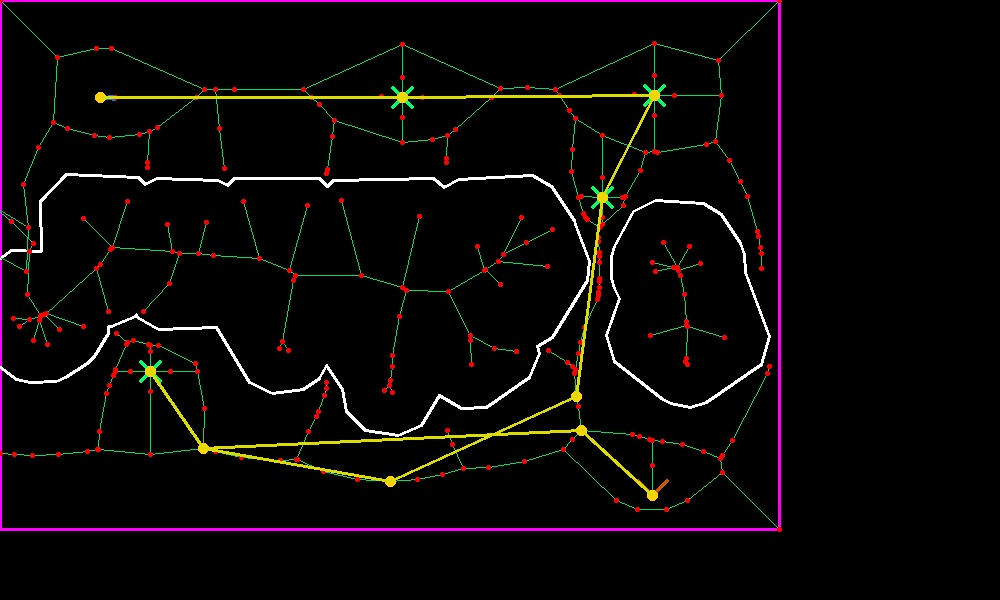
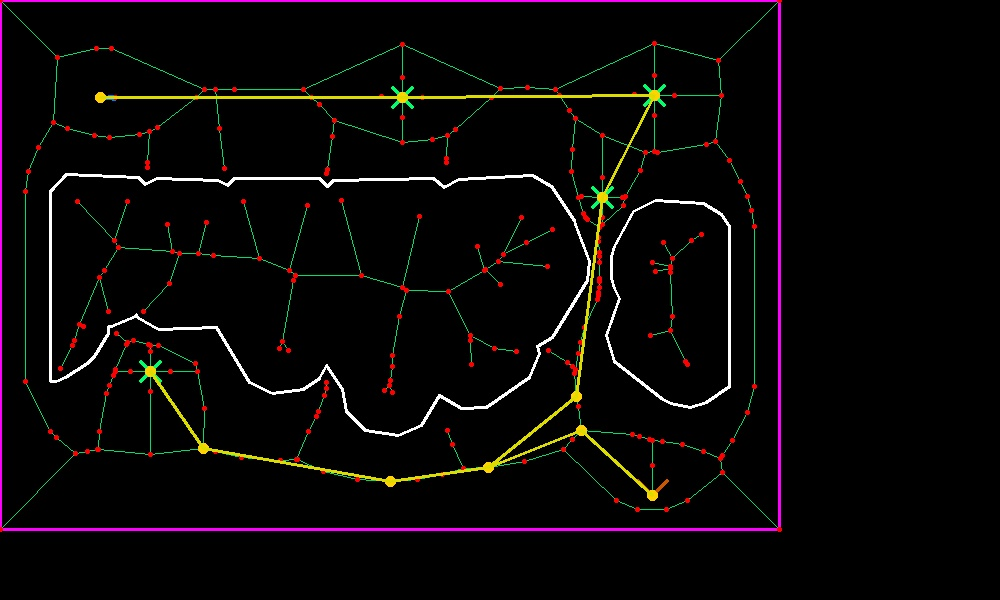
reduce border size

diff --git a/src/student_interface.cpp b/src/student_interface.cpp
@@ -252,10 +252,36 @@ namespace student {
         return (i1.second < i2.second);
     }
 
-    std::vector<Polygon> mergePolygon(const std::vector<Polygon> &obstacle_list){
+    Polygon resizeBorders(const Polygon &borders){
+        Polygon re_border;
+        for(auto &pt: borders){
+            double b_x = pt.x;
+            double b_y = pt.y;
+
+            if(b_x < 0.50){
+                b_x += 0.10;
+            }else{
+                b_x -= 0.10;
+            }
+
+            if(b_y < 0.50){
+                b_y += 0.10;
+            }else{
+                b_y -= 0.10;
+            }
+
+            re_border.emplace_back(Point(b_x, b_y));
+        }
+
+        return re_border;
+    }
+
+    std::vector<Polygon> mergePolygon(const std::vector<Polygon> &obstacle_list, const Polygon &borders){
         std::vector<Polygon> new_list;
+        std::vector<Polygon> clipped_list;
         ClipperLib::Paths solution;
         ClipperLib::Clipper c;
+        ClipperLib::Paths clip(1);
 
         for(int i= 0; i < obstacle_list.size(); i++){
             ClipperLib::Paths subj(1);
@@ -277,7 +303,37 @@ namespace student {
             new_list.emplace_back(p);
         }
 
-        return new_list;
+
+        ClipperLib::Clipper inter;
+        ClipperLib::Paths sol2;
+
+        for(int i= 0; i < new_list.size(); i++){
+            ClipperLib::Paths subj(1);
+            for (const auto &pt: new_list[i]) {
+                subj[0] << ClipperLib::IntPoint(pt.x*1000, pt.y*1000);
+            }
+
+            inter.AddPaths(subj, ClipperLib::ptSubject, true);
+        }
+
+        for(auto &pt: borders){
+            clip[0] << ClipperLib::IntPoint(pt.x*1000, pt.y*1000);
+        }
+
+        inter.AddPaths(clip, ClipperLib::ptClip, true);
+        inter.Execute(ClipperLib::ctIntersection, sol2, ClipperLib::pftNonZero, ClipperLib::pftNonZero);
+
+        for(int i= 0; i < sol2.size(); i++){
+            Polygon p;
+            for (const auto &pt: sol2[i]) {
+                p.push_back(Point((double) pt.X/1000.0, (double)pt.Y/1000.0));
+            }
+
+            clipped_list.emplace_back(p);
+        }
+
+
+        return clipped_list;
     }
 
     bool processMap(const cv::Mat &img_in, const double scale, std::vector<Polygon> &obstacle_list,
@@ -305,18 +361,27 @@ namespace student {
     bool planPath(const Polygon &borders, const std::vector<Polygon> &obstacle_list,
                   const std::vector<std::pair<int, Polygon>> &victim_list, const Polygon &gate, const float x,
                   const float y, const float theta, Path &path, const string &config_folder) {
+
+        std::cout << "Borders: " << std::endl;
+        for(int i = 0; i < borders.size(); i++){
+            std::cout << i << ": " << borders[i].x << "," << borders[i].y << std::endl;
+        }
+        std::cout << std::endl;
+
         //System to now how much time takes the plan
         auto started = std::chrono::high_resolution_clock::now();
 
+        Polygon resized_border = resizeBorders(borders);
+
         //Merge of the interecating polygon
-        std::vector<Polygon> merged_list = mergePolygon(obstacle_list);
+        std::vector<Polygon> merged_list = mergePolygon(obstacle_list, resized_border);
 
         //Initialize voronoi diagram
         voronoi_diagram<double> vd;
         Voronoi v;
 
         //Calculate the voronoi points
-        v.calculate(merged_list, borders, victim_list, gate, x, y, theta, vd);
+        v.calculate(merged_list, resized_border, victim_list, gate, x, y, theta, vd);
 
         //Generate the graph
         std::vector<std::tuple<int, Voronoi::Point, double> > t = v.graph(vd,merged_list);
@@ -353,7 +418,7 @@ namespace student {
 
             //Get the dubins curve
             Dubins dub;
-            dub.setParams(rob_x, rob_y, rob_theta, xf, yf, angle, 12.0);
+            dub.setParams(rob_x, rob_y, rob_theta, xf, yf, angle, 11.0);
 
             pair<int, curve> ret = dub.shortest_path();
             curve cur = ret.second;

diff --git a/src/test_dubins.cpp b/src/test_dubins.cpp
@@ -1,115 +1,9 @@
-#include <boost/config.hpp>
 #include <iostream>
 #include <fstream>
 
-#include <boost/graph/graph_traits.hpp>
-#include <boost/graph/adjacency_list.hpp>
-#include <boost/graph/dijkstra_shortest_paths.hpp>
-
 using namespace std;
-using namespace boost;
 
 int main() {
-    typedef adjacency_list<listS, vecS, directedS,
-            no_property, property<edge_weight_t, int> > graph_t;
-    typedef graph_traits<graph_t>::vertex_descriptor vertex_descriptor;
-    typedef graph_traits<graph_t>::edge_descriptor edge_descriptor;
-    typedef std::pair<int, int> Edge;
 
-    vector<pair<double, double> > node_pos = {
-            make_pair(0,0), make_pair(1.3, 4.3),
-            make_pair(1.1,2), make_pair(1.3, 6.3),
-            make_pair(5,0), make_pair(4.3, 2.3),
-            make_pair(7,2), make_pair(5.3, 1.3)};
-
-    const int num_nodes = 8;
-    Edge edge_array[] = {Edge(0, 1), Edge(1, 5), Edge(0, 2), Edge(2, 4),
-                         Edge(4, 5), Edge(2, 3), Edge(5, 6), Edge(5, 7),
-                         Edge(3, 7)
-    };
-
-    char name[] = "01234567";
-    int weights[] = {8, 5, 7, 1, 8, 6, 4, 3, 1};
-    int num_arcs = sizeof(edge_array) / sizeof(Edge);
-
-    graph_t g(edge_array, edge_array + num_arcs, weights, num_nodes);
-    property_map<graph_t, edge_weight_t>::type weightmap = get(edge_weight, g);
-
-    std::vector<vertex_descriptor> p(num_vertices(g));
-    std::vector<int> d(num_vertices(g));
-    vertex_descriptor s = vertex(0, g);
-
-    property_map<graph_t, vertex_index_t>::type indexmap = get(vertex_index, g);
-
-    dijkstra_shortest_paths(g, s, &p[0], &d[0], weightmap, indexmap,
-                            std::less<int>(), closed_plus<int>(),
-                            (std::numeric_limits<int>::max)(), 0,
-                            default_dijkstra_visitor());
-
-    std::cout << "distances and parents:" << std::endl;
-
-    graph_traits < graph_t >::vertex_iterator vi, vend;
-    for (tie(vi, vend) = vertices(g); vi != vend; ++vi) {
-        std::cout << "distance(" << name[*vi] << ") = " << d[*vi] << ", ";
-        std::cout << "parent(" << name[*vi] << ") = " << name[p[*vi]] << std::
-        endl;
-    }
-    std::cout << std::endl;
-
-    int n = 7;
-    vector<int> path;
-    while (n != 0) {
-        path.push_back(n);
-        n = p[n]; // you're one step closer to the source..
-    }
-
-    path.push_back(0);
-
-    cout << "Cammino minimo: ";
-    for(int i = 0; i < path.size(); i++){
-        cout << path[i] << "(" << node_pos[path[i]].first << "," << node_pos[path[i]].second << ")";
-        if(i < path.size()-1) cout << " --> ";
-    }
-
-    cout << endl;
-
-    std::ofstream dot_file("dijkstra-eg.dot");
-
-    dot_file << "digraph D {\n"
-             << "  rankdir=LR\n"
-             << "  size=\"4,3\"\n"
-             << "  ratio=\"fill\"\n"
-             << "  edge[style=\"bold\"]\n" << "  node[shape=\"circle\"]\n";
-
-    for(int i = 0; i < num_nodes; i++){
-        dot_file << name[i]
-                 << "[pos=\"" << node_pos[i].first << "," << node_pos[i].second  << "!\"]\n";
-    }
-
-    graph_traits < graph_t >::edge_iterator ei, ei_end;
-    for (tie(ei, ei_end) = edges(g); ei != ei_end; ++ei) {
-
-        graph_traits < graph_t >::edge_descriptor e = *ei;
-        graph_traits < graph_t >::vertex_descriptor u = source(e, g), v = target(e, g);
-
-
-        dot_file << name[u] << " -> " << name[v]
-                 << "[label=\"" << get(weightmap, e) << "\"";
-
-        bool shortest = false;
-
-        for(int i = path.size() - 1; i > 0; i--){
-            if(u == path[i] && v == path[i-1]){
-                shortest = true;
-            }
-        }
-
-        if (shortest)
-            dot_file << ", color=\"black\"";
-        else
-            dot_file << ", color=\"grey\"";
-        dot_file << "]";
-    }
-    dot_file << "}";
-    return EXIT_SUCCESS;
+    return 1;
 }

diff --git a/src/process_arena.cpp b/src/process_arena.cpp
@@ -20,7 +20,6 @@ bool processObstacles(const cv::Mat &img_in, const double scale, std::vector<Pol
     std::vector<cv::Point> approx_curve;
     cv::Mat contours_img;
 
-
     cv::findContours(red_mask, contours, cv::RETR_EXTERNAL, cv::CHAIN_APPROX_SIMPLE);
     drawContours(contours_img, contours, -1, cv::Scalar(40, 190, 40), 1, cv::LINE_AA);
 

diff --git a/src/include/Voronoi.hpp b/src/include/Voronoi.hpp
@@ -38,7 +38,7 @@ typedef boost::graph_traits<graph_t>::edge_descriptor edge_descriptor;
 typedef std::pair<int, int> Edge;
 
 const double threshold_ricerca = 0.01;
-const double threshold_angle = 0.55;
+const double threshold_angle = 0.20;
 const double threshold_dist = 0.18;
 
 static double scale = 500.0;
